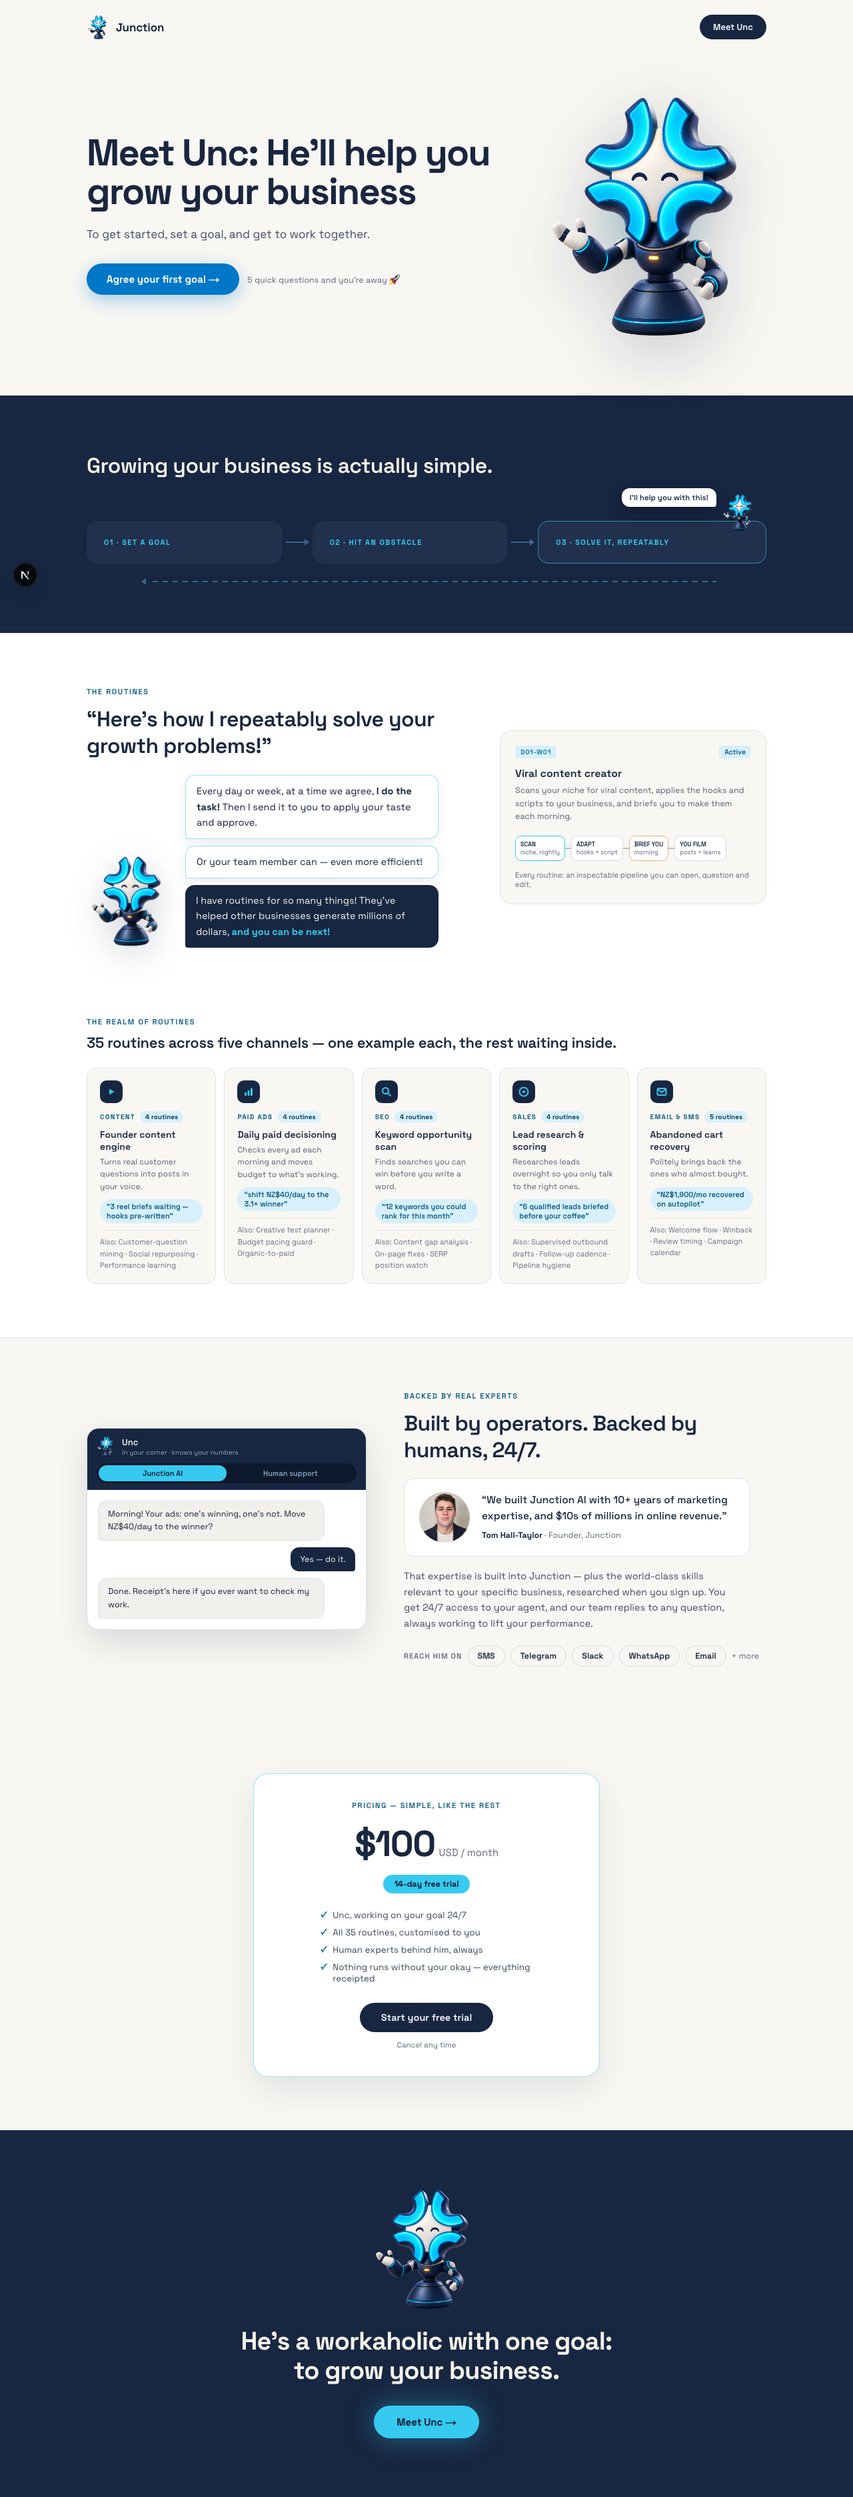
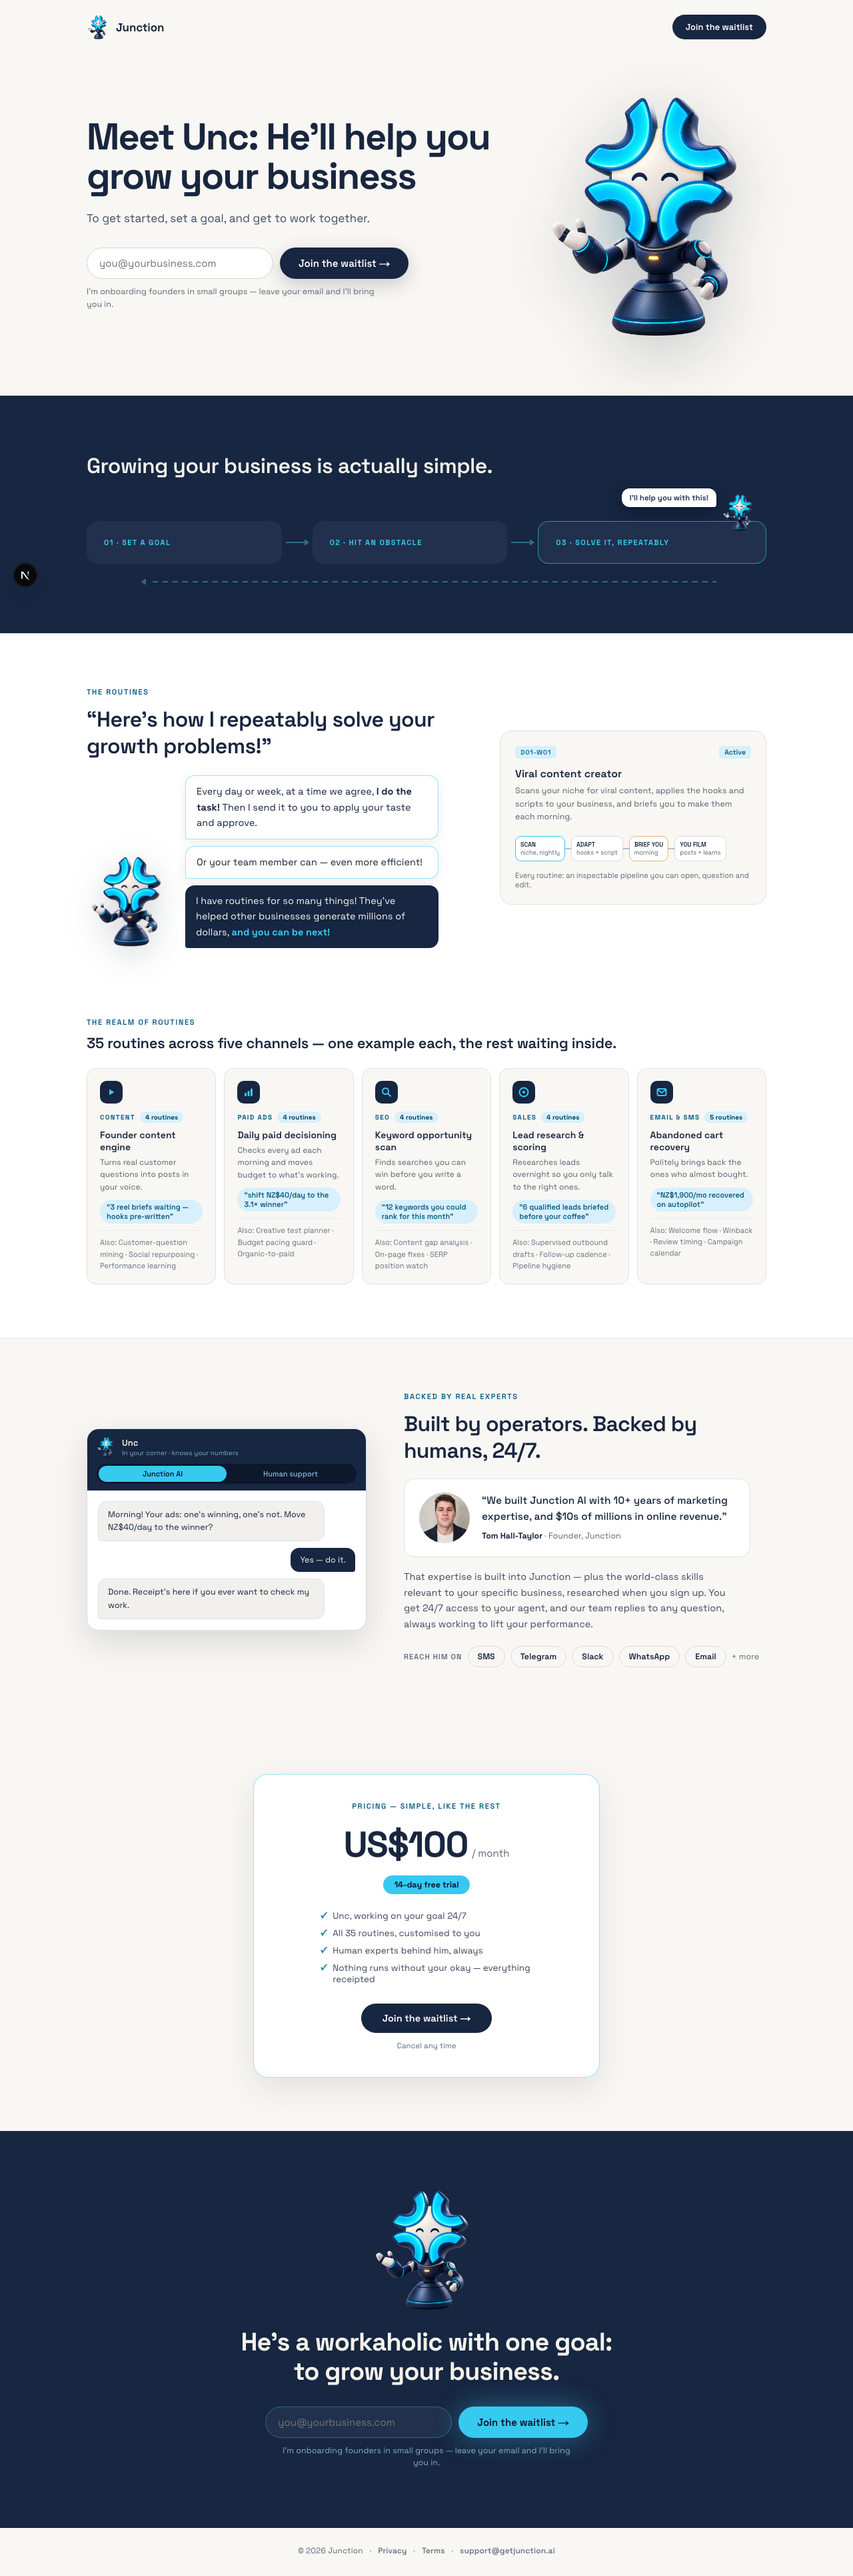
Parity report: landing re-captured in waitlist mode — 4.70% (overlap 1.72%) is the intentional CTA/pricing/footer change, noted at the top of the landing section; stale page.tsx paths in the notes now point at src/components/landing/Landing.tsx

diff --git a/tests/e2e/parity.spec.ts b/tests/e2e/parity.spec.ts
@@ -47,6 +47,7 @@ test.describe("Visual parity", () => {
   test("write REPORT.md", async () => {
     expect(results.length).toBe(SCREENS.length);
     const notes = [
+      "**Landing is in waitlist mode (intentional, 2026-09-02).** Every CTA on `/` is now a waitlist action: the hero CTA row and the navy closer's button are an inline email capture (`src/components/landing/WaitlistForm.tsx`), the nav and pricing buttons scroll to one of them, the pricing card shows the visitor's country price (`US$100 / month` by default, `src/lib/locale`) and a quiet legal footer follows the closer. The `landing` diff therefore measures a deliberate product change against the prototype, not port drift; everything above the hero CTA row and every other section is unchanged.",
       "**Fonts.** The prototypes load Space Grotesk from Google Fonts; the port self-hosts it through `next/font`. Same family and weights, but the served files differ in version/hinting, so glyph edges differ by a pixel here and there across every text run — this is the floor under every number in the table.",
       "**Mascot animation phase.** `jfloat` is frozen at its 0% keyframe on both sources (translateY(0)), so the floating mascot is compared at rest. `jpulse` live dots are frozen at full opacity.",
       "**Date math.** Both sources run the same fixed demo clock (today = 31 Aug 2026, start = 12 Aug 2026, weeks anchored on 1 Sep 2026), so “days left”, pace and the plan's week spans are identical — no live-date drift.",
@@ -55,8 +56,8 @@ test.describe("Visual parity", () => {
     ];
     /* Hand-verified deviations (measured with getBoundingClientRect on both sources at 1280×900). */
     const bugs: string[] = [
-      "**Landing hero copy sits 18px too low** — `src/app/page.tsx` hero `<header>`: the prototype keeps an empty stats row (`<div style=\"display:flex; gap:26px; margin-top:36px\">` with three empty `<div>`s) under the CTA row; the port dropped it, so the text column is 36px shorter (261.5px vs 297.5px) and `align-items:center` centres it 18px lower (h1 top 218px vs 200px; the mascot sits at 135px on both). Restore the row (or give the CTA row `margin-bottom:36px`) to land it exactly. This is the whole 0.94% on `landing`.",
-      "**Hero apostrophe** — the prototype's h1 is `Meet Unc: He'll help you grow your business` (straight `'`); `src/app/page.tsx` renders `He&rsquo;ll` (`’`). Everywhere else the two already agree (closer `He’s` curly on both, step-0 `Let's get started` straight on both, `Let’s go →` curly on both). Glyph-level only; the harness normalises quotes when asserting copy. Pick one for the h1.",
+      "**Landing hero copy sits 18px too low** (historical — the port now keeps the row, see `src/components/landing/Landing.tsx`) — hero `<header>`: the prototype keeps an empty stats row (`<div style=\"display:flex; gap:26px; margin-top:36px\">` with three empty `<div>`s) under the CTA row; the port dropped it, so the text column is 36px shorter (261.5px vs 297.5px) and `align-items:center` centres it 18px lower (h1 top 218px vs 200px; the mascot sits at 135px on both). Restore the row (or give the CTA row `margin-bottom:36px`) to land it exactly. This is the whole 0.94% on `landing`.",
+      "**Hero apostrophe** — the prototype's h1 is `Meet Unc: He'll help you grow your business` (straight `'`); `src/components/landing/Landing.tsx` renders `He&rsquo;ll` (`’`). Everywhere else the two already agree (closer `He’s` curly on both, step-0 `Let's get started` straight on both, `Let’s go →` curly on both). Glyph-level only; the harness normalises quotes when asserting copy. Pick one for the h1.",
       "**README says 14 connector cards; both the prototype and the port render 16** (Shopify … Slack, incl. Xero and QuickBooks). The port is faithful to the prototype — the README is the stale document.",
       "**Prototype quirk carried over (product call, not a port bug):** on Home, reconnecting Klaviyo clears the blocked card and the needs-you count, but the “Setting up next → Review request timing” proposal keeps its “Needs Klaviyo reconnect” pill — `propStatus` is independent of `connState` in `platform-v2-logic.js` and in `src/lib/platform/derive.ts` alike.",
       "**Home text runs are 1–2px off horizontally** (setup strip labels, before → after lines, the hire line) — pure font-file metrics (Google Fonts vs `next/font` build of Space Grotesk); markup and spacing are identical. No action.",

diff --git a/design-reference/parity/REPORT.md b/design-reference/parity/REPORT.md
@@ -1,14 +1,14 @@
 # Visual parity — React port vs original prototypes
 
-*Generated 2026-09-02T05:46:42.790Z by `npx playwright test tests/e2e/parity.spec.ts` (scripts/parity/capture.ts).*
+*Generated 2026-09-02T06:28:50.208Z by `npx playwright test tests/e2e/parity.spec.ts` (scripts/parity/capture.ts).*
 
 **Method.** Both sources are driven to the same state with the same clicks (Skip → nav items → role card → Tutorial), every CSS animation/transition is frozen at its 0% frame (jfloat, jpulse, toggle knobs, phase dots), web fonts and images are awaited, then a full-page screenshot is taken at a 1280×900 viewport (DPR 1), clipped to the 1280px viewport width. Pixels are compared with a pixelmatch-style YIQ colour delta (threshold 0.1) over the union canvas; a page that is taller in one source counts the extra rows as differences (`diff %`), while `overlap %` restricts the comparison to the shared region so layout drift is visible separately from height drift. `<screen>-diff.png` paints differing pixels red (orange = present in only one source). Visible copy (`document.body.innerText`) is also diffed line by line with quotes/whitespace normalised (`copy Δ`).
 
-**Pass threshold.** ≤ 3% on layout-equal screens. Result: **7 of 7 screens pass.**
+**Pass threshold.** ≤ 3% on layout-equal screens. Result: **6 of 7 screens pass.**
 
 | Screen | id | proto / port size | diff % | overlap % | copy Δ | verdict | notes |
 |---|---|---|---|---|---|---|---|
-| Landing page | `landing` | 1280×3744 / 1280×3744 | **0.05%** | 0.05% | none | ✅ pass |  |
+| Landing page | `landing` | 1280×3744 / 1280×3861 | **4.70%** | 1.72% | 22 lines | ⚠ over |  |
 | Onboarding · step 0 (welcome) | `onboarding-0` | 1280×900 / 1280×900 | **0.14%** | 0.14% | none | ✅ pass |  |
 | Control centre · Home (demo data) | `home` | 1280×2474 / 1280×2474 | **0.24%** | 0.24% | none | ✅ pass |  |
 | Strategy | `strategy` | 1280×1032 / 1280×1032 | **0.09%** | 0.09% | none | ✅ pass |  |
@@ -19,12 +19,39 @@
 Files: `design-reference/parity/<id>-proto.png`, `<id>-port.png`, `<id>-diff.png`, `<id>-{proto,port}.txt`.
 
 ## Copy differences (visible text, line level)
+### `landing`
+Only in the prototype:
+- `Meet Unc`
+- `Agree your first goal →`
+- `5 quick questions and you're away 🚀`
+- `$100`
+- `USD / month`
+- `Start your free trial`
+- `Meet Unc →`
+Only in the port:
+- `Join the waitlist`
+- `Join the waitlist →`
+- `I'm onboarding founders in small groups — leave your email and I'll bring you in.`
+- `US$100`
+- `/ month`
+- `Join the waitlist →`
+- `Join the waitlist →`
+- `I'm onboarding founders in small groups — leave your email and I'll bring you in.`
+- `© 2026 Junction`
+- `·`
+- `Privacy`
+- `·`
+- `Terms`
+- `·`
+- `support@getjunction.ai`
+
 ### `routine-detail`
 Only in the port:
 - `Run now (dry run)`
 
 
 ## Known, accepted sources of difference
+- **Landing is in waitlist mode (intentional, 2026-09-02).** Every CTA on `/` is now a waitlist action: the hero CTA row and the navy closer's button are an inline email capture (`src/components/landing/WaitlistForm.tsx`), the nav and pricing buttons scroll to one of them, the pricing card shows the visitor's country price (`US$100 / month` by default, `src/lib/locale`) and a quiet legal footer follows the closer. The `landing` diff therefore measures a deliberate product change against the prototype, not port drift; everything above the hero CTA row and every other section is unchanged.
 - **Fonts.** The prototypes load Space Grotesk from Google Fonts; the port self-hosts it through `next/font`. Same family and weights, but the served files differ in version/hinting, so glyph edges differ by a pixel here and there across every text run — this is the floor under every number in the table.
 - **Mascot animation phase.** `jfloat` is frozen at its 0% keyframe on both sources (translateY(0)), so the floating mascot is compared at rest. `jpulse` live dots are frozen at full opacity.
 - **Date math.** Both sources run the same fixed demo clock (today = 31 Aug 2026, start = 12 Aug 2026, weeks anchored on 1 Sep 2026), so “days left”, pace and the plan's week spans are identical — no live-date drift.
@@ -32,8 +59,9 @@ Only in the port:
 - **Corner buddy.** Fixed-position; in a full-page capture it renders once, at the bottom-right of the (expanded) viewport, on both sources.
 
 ## Deviations for the next agent (not fixed here — `src/` was off-limits to this harness)
-- **Landing hero copy sits 18px too low** — `src/app/page.tsx` hero `<header>`: the prototype keeps an empty stats row (`<div style="display:flex; gap:26px; margin-top:36px">` with three empty `<div>`s) under the CTA row; the port dropped it, so the text column is 36px shorter (261.5px vs 297.5px) and `align-items:center` centres it 18px lower (h1 top 218px vs 200px; the mascot sits at 135px on both). Restore the row (or give the CTA row `margin-bottom:36px`) to land it exactly. This is the whole 0.94% on `landing`.
-- **Hero apostrophe** — the prototype's h1 is `Meet Unc: He'll help you grow your business` (straight `'`); `src/app/page.tsx` renders `He&rsquo;ll` (`’`). Everywhere else the two already agree (closer `He’s` curly on both, step-0 `Let's get started` straight on both, `Let’s go →` curly on both). Glyph-level only; the harness normalises quotes when asserting copy. Pick one for the h1.
+- **Landing hero copy sits 18px too low** (historical — the port now keeps the row, see `src/components/landing/Landing.tsx`) — hero `<header>`: the prototype keeps an empty stats row (`<div style="display:flex; gap:26px; margin-top:36px">` with three empty `<div>`s) under the CTA row; the port dropped it, so the text column is 36px shorter (261.5px vs 297.5px) and `align-items:center` centres it 18px lower (h1 top 218px vs 200px; the mascot sits at 135px on both). Restore the row (or give the CTA row `margin-bottom:36px`) to land it exactly. This is the whole 0.94% on `landing`.
+- **Hero apostrophe** — the prototype's h1 is `Meet Unc: He'll help you grow your business` (straight `'`); `src/components/landing/Landing.tsx` renders `He&rsquo;ll` (`’`). Everywhere else the two already agree (closer `He’s` curly on both, step-0 `Let's get started` straight on both, `Let’s go →` curly on both). Glyph-level only; the harness normalises quotes when asserting copy. Pick one for the h1.
 - **README says 14 connector cards; both the prototype and the port render 16** (Shopify … Slack, incl. Xero and QuickBooks). The port is faithful to the prototype — the README is the stale document.
 - **Prototype quirk carried over (product call, not a port bug):** on Home, reconnecting Klaviyo clears the blocked card and the needs-you count, but the “Setting up next → Review request timing” proposal keeps its “Needs Klaviyo reconnect” pill — `propStatus` is independent of `connState` in `platform-v2-logic.js` and in `src/lib/platform/derive.ts` alike.
 - **Home text runs are 1–2px off horizontally** (setup strip labels, before → after lines, the hire line) — pure font-file metrics (Google Fonts vs `next/font` build of Space Grotesk); markup and spacing are identical. No action.
+- `landing` is at 4.70% (overlap 1.72%): sizes proto 1280×3744 vs port 1280×3861 — open `landing-diff.png` to see where.
